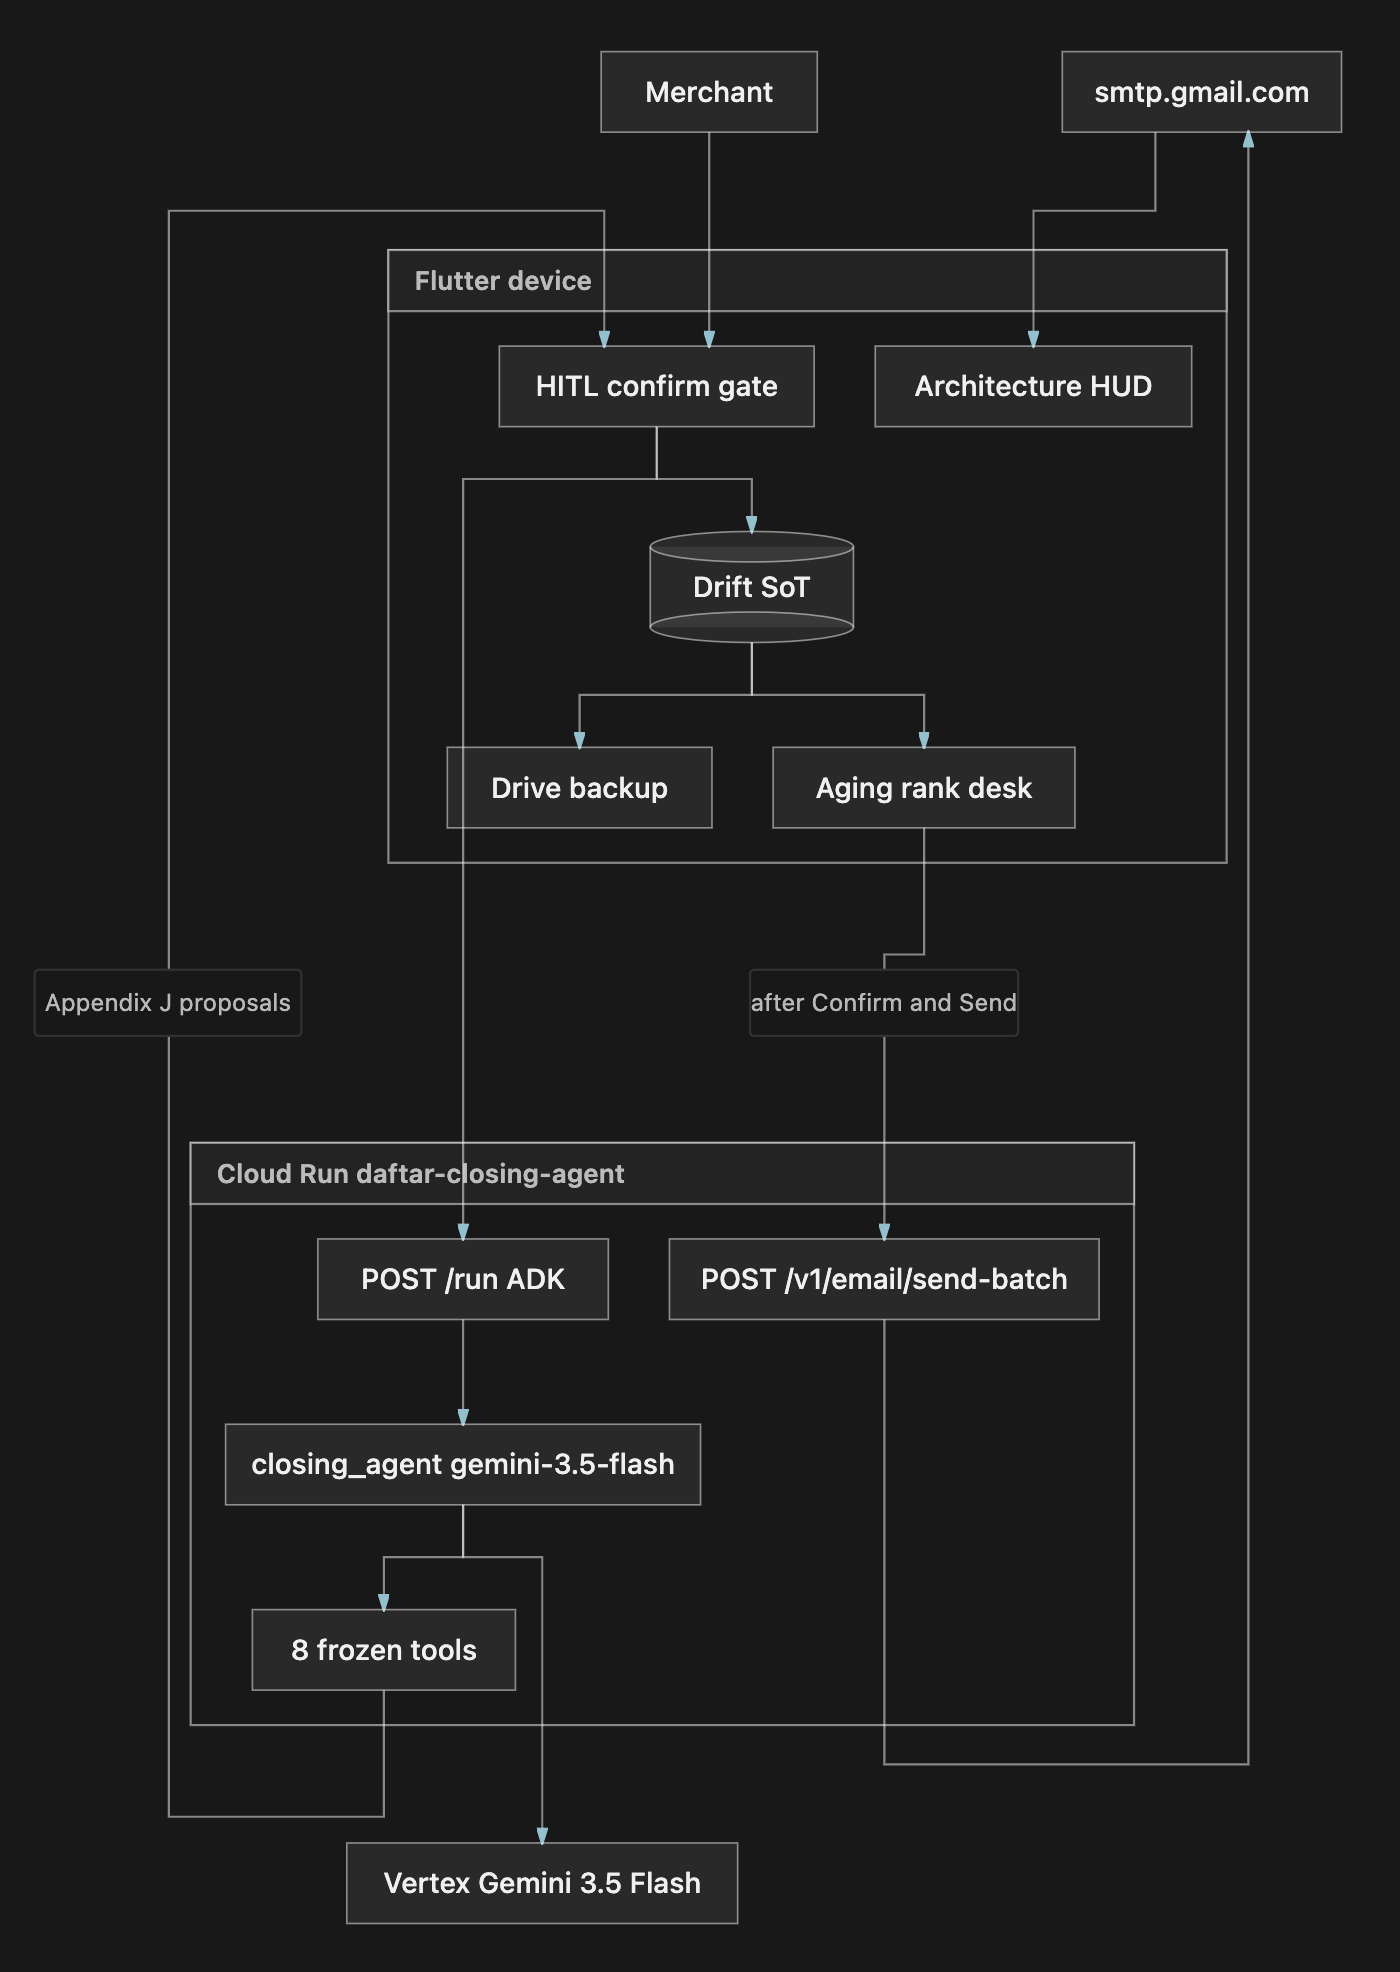
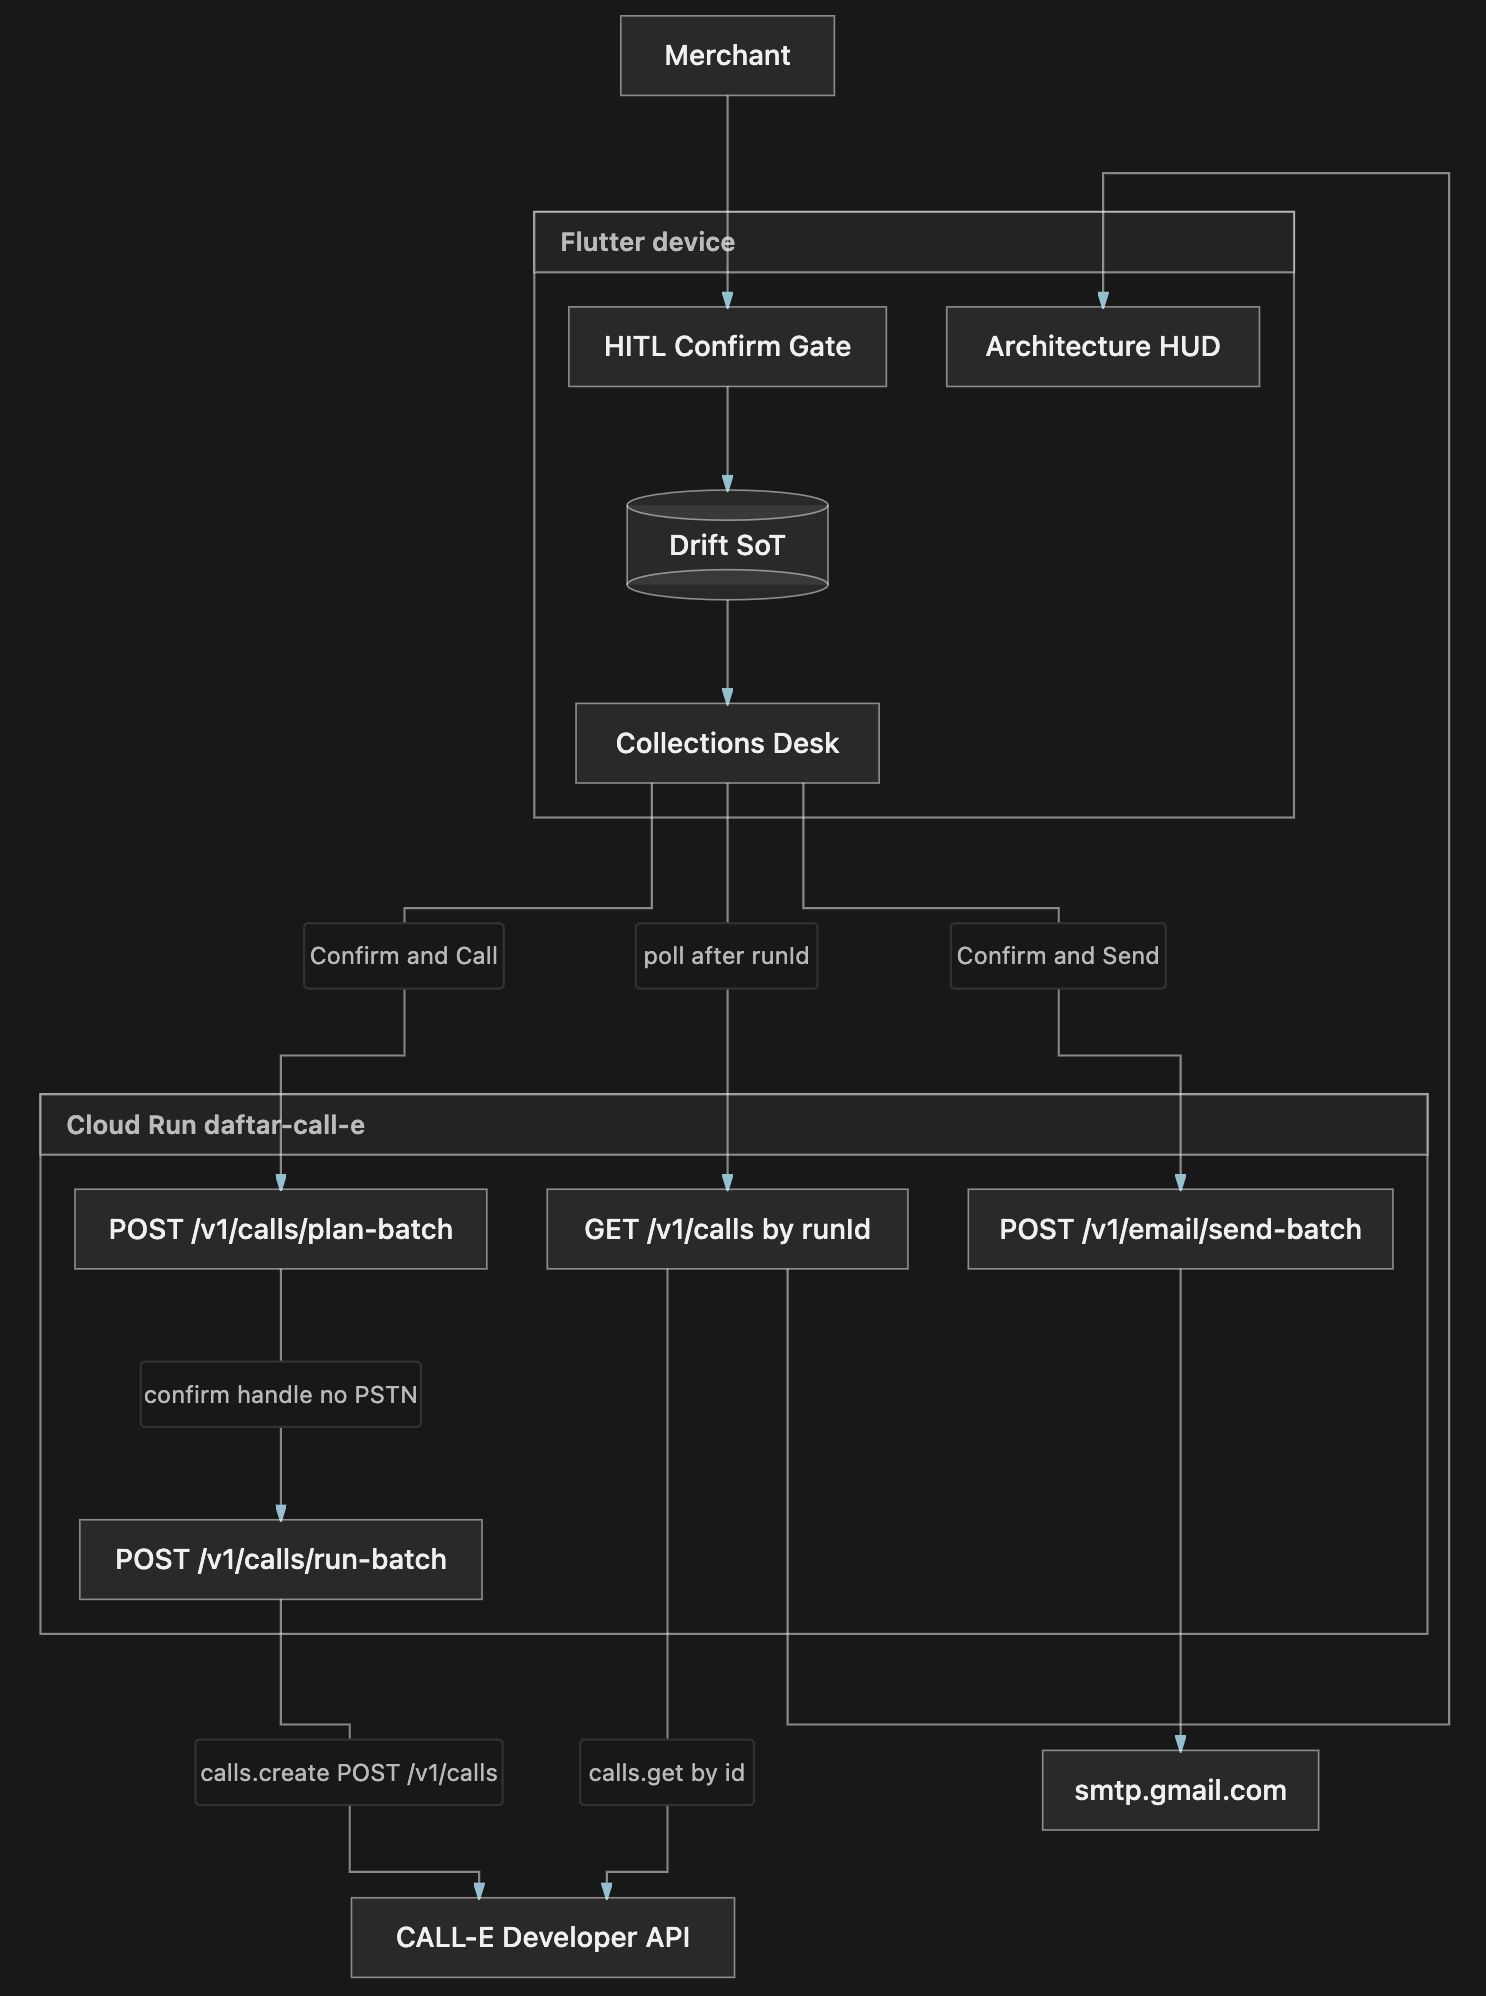
Update architecture documentation and images for CALL-E Stage 6.1. Revised `README.md` and `contest_architecture.md` to reflect the new CALL-E Developer API and dual-rail SMTP structure. Updated the architecture diagram to clarify the relationship between components and removed outdated references. 

diff --git a/docs/project_log.md b/docs/project_log.md
@@ -5474,3 +5474,28 @@ flutter test test/core/contest/contest_architecture_png_test.dart
 ### Status
 Roadmap §6.1 HITL + Caption still `[x]`; **(and PNG)** still `[ ]`. Next: owner export PNG, then §6.2 README / disclosure.
 
+## 2026-09-10 — Stage 6.1 install CALL-E architecture PNG
+
+### Context
+Owner exported the TB mermaid to repo-root `contest_architecture.png`. Canonical path is [`docs/architecture/contest_architecture.png`](architecture/contest_architecture.png); a root duplicate fails the lock test. Heritage Agentic PNG and heritage caption had to go.
+
+### Done
+- `mv -f` owner export over [`docs/architecture/contest_architecture.png`](architecture/contest_architecture.png) (186K); root copy removed
+- [`docs/architecture/contest_architecture.md`](architecture/contest_architecture.md): heritage warning replaced; alt **Confirm & Call**
+- [`README.md`](../README.md) Architecture (judges) one-liner + alt: `daftar-call-e` + CALL-E Developer API + dual-rail SMTP. Agentic bullets / §6.2 left untouched
+- [`docs/architecture/README.md`](architecture/README.md): PNG row is owner export, not “overwrite heritage”
+- Roadmap §6.1 **(and PNG)** `[x]`
+
+### Architecture / decisions
+Glance PNG is CALL-E sibling (`plan-batch` / `run-batch` / GET by runId / Developer API / `send-batch`). Mermaid remains source of truth. No E.164. No Cloud Run mutate.
+
+### Ops / verification
+```bash
+test ! -f contest_architecture.png
+ls -lh docs/architecture/contest_architecture.png   # ~186K, 10KB–5MB
+flutter test test/core/contest/contest_architecture_png_test.dart
+```
+
+### Status
+§6.1 complete. Next: §6.2 README / disclosure. Do not film until §6.3 SOP.
+

diff --git a/README.md b/README.md
@@ -13,9 +13,9 @@ Docs index: [`docs/README.md`](docs/README.md).
 
 ## Architecture (judges)
 
-**[Contest architecture](docs/architecture/contest_architecture.md)** — Flutter ↔ Cloud Run (ADK) ↔ Gemini 3.5 ↔ Drift (source of truth) ↔ `smtp.gmail.com`.
+**[Contest architecture](docs/architecture/contest_architecture.md)** — Flutter ↔ Cloud Run **`daftar-call-e`** ↔ CALL-E Developer API (`calls.create` / poll GET) ↔ Drift SoT ↔ dual-rail `smtp.gmail.com`.
 
-![Daftar Closing Agent architecture](docs/architecture/contest_architecture.png)
+![Daftar Closing Agent — Confirm & Call](docs/architecture/contest_architecture.png)
 
 - **HITL (Model C):** Gemini `propose_*` (+ `parse_goal` for ask / ambiguous) → merchant **Confirm** → device **Drift commit**. Close: one **Confirm & Send Statements** on the plan → device ritual (`localDay` → Drive → aging → desk) → `POST /v1/email/send-batch` (not an ADK tool).
 - **§5.6 HUD:** Settings **Show agent architecture** shows model, tool scope, HITL rail (Propose → Confirm → Commit → Rank), correlation last-8, and `Sent ·` Message-ID last-8 after SMTP **250**.

diff --git a/docs/architecture/contest_architecture.md b/docs/architecture/contest_architecture.md
@@ -57,9 +57,9 @@ flowchart TB
 
 `plan-batch` **never dials**. `run-batch` is the only path that creates a CALL-E call. Poll is **GET** only — no `create_and_wait` on Cloud Run, no public webhook.
 
-**Owner PNG (heritage until replaced):** the embed below is the Agentic-era export (`daftar-closing-agent`, eight tools, Vertex Gemini). Do not use it as the glance. Export the **TB mermaid above** ~1400px wide and overwrite this file. No E.164, no API keys, no frozen Agentic hostname as the live service box. Devpost uploads PNG (not Markdown). Keep size 10 KB–5 MB.
+**PNG:** owner export of the TB mermaid above. Mermaid remains the editable source; Devpost uploads PNG (not Markdown). Keep size 10 KB–5 MB. No E.164, no API keys, no frozen Agentic hostname as the live service box.
 
-![Daftar Closing Agent architecture](contest_architecture.png)
+![Daftar Closing Agent — Confirm & Call](contest_architecture.png)
 
 ## HITL rail
 

diff --git a/docs/architecture/README.md b/docs/architecture/README.md
@@ -5,7 +5,7 @@
 | Document | Role |
 | --- | --- |
 | [`contest_architecture.md`](contest_architecture.md) | CALL-E judge **glance** (TB mermaid first): sibling FastAPI on `daftar-call-e`, plan-batch → run-batch → Developer API create/get, SMTP dual rail, HITL Validate / Create / Poll |
-| [`contest_architecture.png`](contest_architecture.png) | Owner export of the TB mermaid for Devpost (overwrite heritage Agentic PNG; do not generate in-agent) |
+| [`contest_architecture.png`](contest_architecture.png) | Owner export of the TB mermaid for Devpost (CALL-E sibling; do not generate in-agent) |
 
 Judges: start at the root [`README.md`](../../README.md).
 

diff --git a/docs/roadmap_v3.md b/docs/roadmap_v3.md
@@ -862,7 +862,7 @@ Flutter · Drift · SMTP · Cloud Run URLs · real E.164 · Arabic body copy · 
 
 **6.1 Architecture diagram**
 
-- [ ] Update [`docs/architecture/contest_architecture.md`](architecture/contest_architecture.md) (and PNG) for CALL-E sibling + poll + dual rail
+- [x] Update [`docs/architecture/contest_architecture.md`](architecture/contest_architecture.md) (and PNG) for CALL-E sibling + poll + dual rail
 - [x] Keep HITL rail: Propose → Confirm → Commit → Rank → **Validate / Create / Poll**
 - [x] Caption: CALL-E is not an ADK tool; Agentic URL is not this service; production = Developer API not MCP
 
